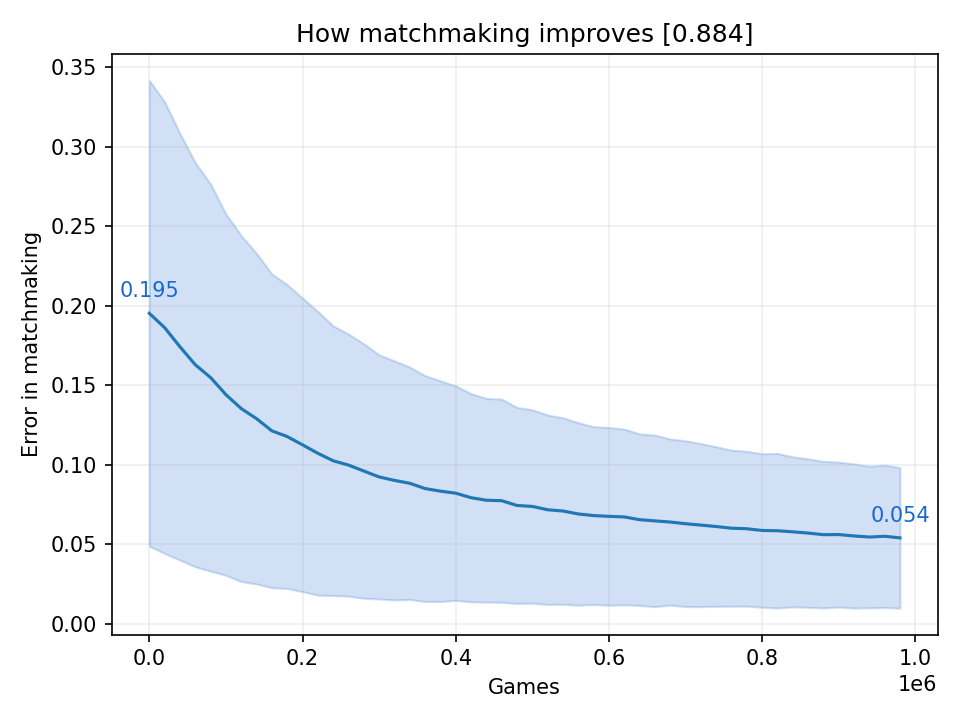
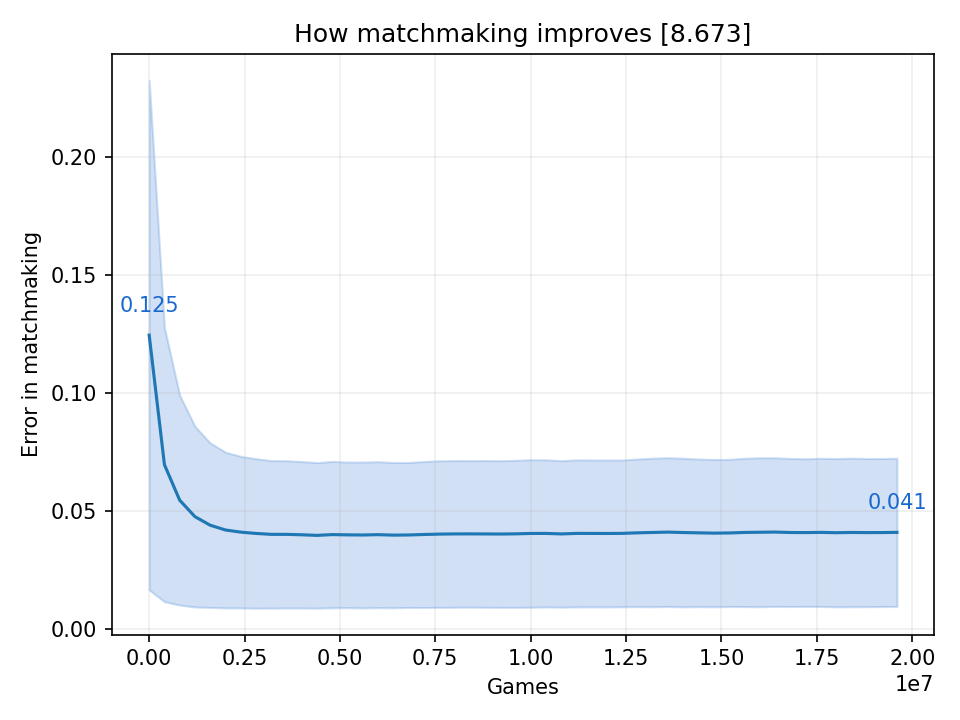
...

diff --git a/compare_strategies.py b/compare_strategies.py
@@ -14,7 +14,7 @@ GAMES = 1000000
 
 strategy_types = ["naive", "elo", "tweaked_elo", "tweaked2_elo", "trueskill"]
 psimulation.set_my_python_function(trueskill_rate.rate_1v1)
-fig, ax = plt.subplots(4, 1, dpi=120, figsize=(7, 18))
+fig, ax = plt.subplots(3, 1, dpi=120, figsize=(7, 14))
 BINS = 200
 legend = [[], []]
 start = time.time()
@@ -39,7 +39,7 @@ for idx, strategy in enumerate(strategy_types):
     if skills is None:
         skills = np.array([i["skill"] for i in data])
     mmrs = np.array([i["mmr"] for i in data])
-    ax[3].plot(skills, mmrs)
+    ax[2].plot(skills, mmrs)
 
     # Other plots
     x = np.linspace(1, BINS, BINS)
@@ -55,33 +55,33 @@ for idx, strategy in enumerate(strategy_types):
     color = p[0].get_color()
     ax[0].plot(x * GAMES / BINS, prediction_differences, color=color)
 
-    sns.histplot(match_accuracy,
-                 element='poly',
-                 fill=True,
-                 alpha=0.2,
-                 ax=ax[2],
-                 color=color)
+    # sns.histplot(match_accuracy,
+    #              element='poly',
+    #              fill=True,
+    #              alpha=0.2,
+    #              ax=ax[3],
+    #              color=color)
 
-ax[3].set_ylim(np.min(skills) * 1.1 - 200, np.max(skills) * 1.1 + 200)
-ax[3].plot([np.min(skills), np.max(skills)],
+ax[2].set_ylim(np.min(skills) * 1.1 - 200, np.max(skills) * 1.1 + 200)
+ax[2].plot([np.min(skills), np.max(skills)],
            [np.min(skills), np.max(skills)],
            color="black",
            linewidth=0.5)
 
-ax[3].set_title(f"MMR - Skill relation ({GAMES/PLAYERS:.0f} games/player)")
-ax[3].set_xlabel("Player skill")
-ax[3].set_ylabel("Player MMR")
-ax[3].grid(alpha=0.2)
-ax[3].legend(strategy_types + ["optimum"], loc="best")
+ax[2].set_title(f"MMR - Skill relation ({GAMES/PLAYERS:.0f} games/player)")
+ax[2].set_xlabel("Player skill")
+ax[2].set_ylabel("Player MMR")
+ax[2].grid(alpha=0.2)
+ax[2].legend(strategy_types + ["optimum"], loc="best")
 
 ax[0].set_title(
     f"How a matchmaking strategy gets better at predicting outcomes")
 ax[0].set_ylabel("Error in predition")
 ax[1].set_title(f"Difference in skill between matched players")
 ax[1].set_ylabel("Difference in skill")
-ax[2].set_xlabel("Match accuracy error")
-ax[2].grid(alpha=0.2)
-ax[2].legend(strategy_types, loc="best")
+# ax[3].set_xlabel("Match accuracy error")
+# ax[3].grid(alpha=0.2)
+# ax[3].legend(strategy_types, loc="best")
 
 for i in range(2):
     ax[i].grid(alpha=0.2)

diff --git a/analyse.py b/analyse.py
@@ -16,7 +16,7 @@ start = time.time()
 
 ### RUN SIMULATION
 PLAYERS = 20000
-GAMES = 1000000
+GAMES = 20000000
 STRATEGY = "trueskill"
 psimulation.set_my_python_function(trueskill_rate.rate_1v1)
 data, prediction_differences, match_accuracy = psimulation.run_simulation(
@@ -26,7 +26,7 @@ process = psutil.Process(os.getpid())
 print(
     f"Peak memory usage: {process.memory_info().peak_wset/(1024*1024):.0f} MB")
 
-    
+
 """
 PLAYERS = 20000
 GAMES = 100000000
